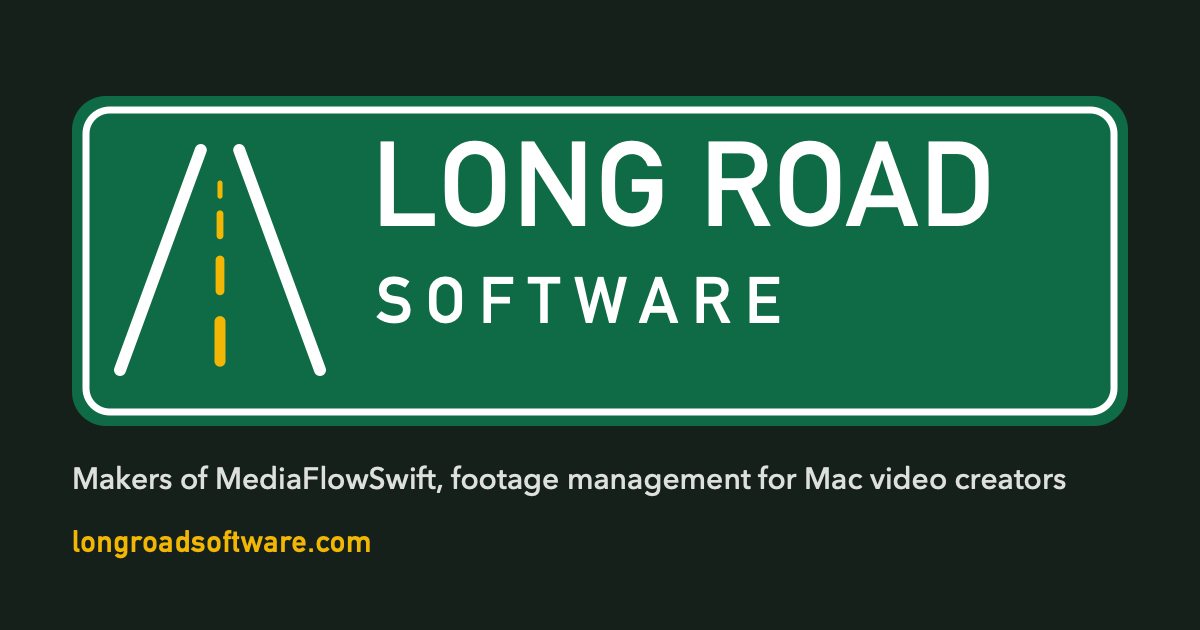
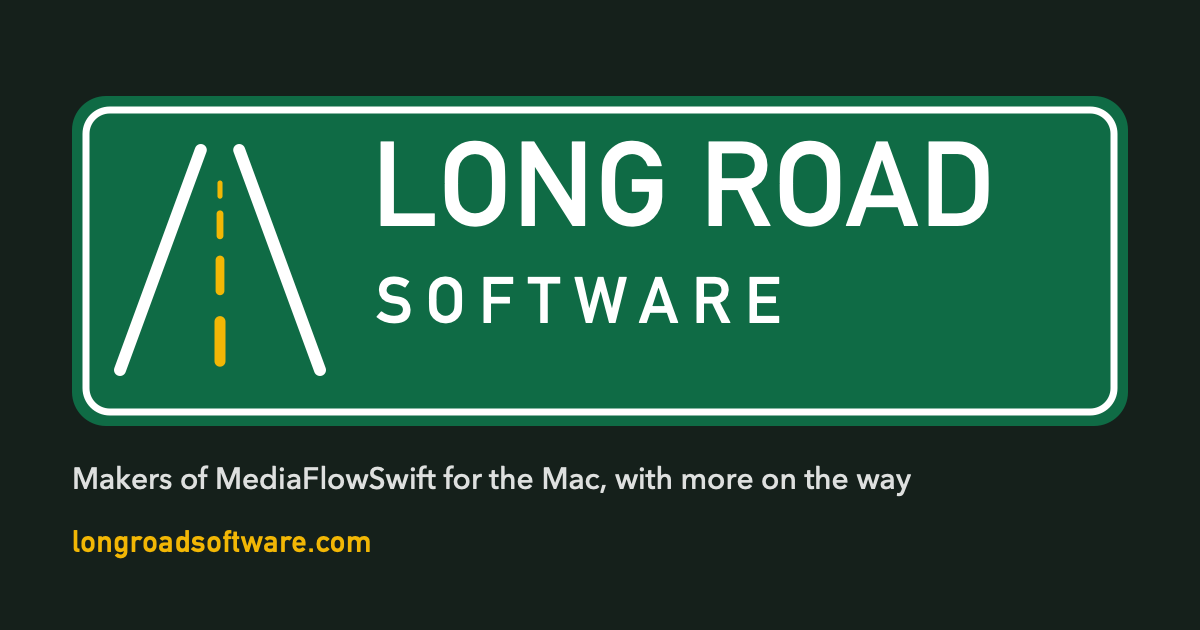
Company wording: dependable software, starting on the Mac; name what's coming without claiming it ships today (#21)

Changed region(s): [[0.37, 0.7238, 0.8942, 0.7841]]

diff --git a/index.html b/index.html
@@ -3,14 +3,14 @@
 <head>
 <meta charset="utf-8">
 <meta name="viewport" content="width=device-width, initial-scale=1">
-<title>Long Road Software — Mac Software for Video Creators</title>
-<meta name="description" content="Long Road Software LLC makes MediaFlowSwift, a Mac footage manager, and Proof Copy, a card-offload checker not yet on sale.">
+<title>Long Road Software — Dependable Software, Starting on the Mac</title>
+<meta name="description" content="Long Road Software LLC makes MediaFlowSwift, a footage manager for the Mac. Coming next: Proof Copy for the Mac, Check &amp; Roll for iPhone and iPad, and MediaFlowSwift for Windows.">
 <link rel="canonical" href="https://longroadsoftware.com/">
 <link rel="icon" href="/favicon.svg" type="image/svg+xml">
 <meta property="og:type" content="website">
 <meta property="og:site_name" content="Long Road Software">
-<meta property="og:title" content="Long Road Software — Mac Software for Video Creators">
-<meta property="og:description" content="The makers of MediaFlowSwift. Proof Copy, a card-offload checker, is not on sale yet.">
+<meta property="og:title" content="Long Road Software — Dependable Software, Starting on the Mac">
+<meta property="og:description" content="The makers of MediaFlowSwift for the Mac. Proof Copy, Check &amp; Roll and MediaFlowSwift for Windows are on the way.">
 <meta property="og:url" content="https://longroadsoftware.com/">
 <meta property="og:image" content="https://longroadsoftware.com/images/og-image.png">
 <meta property="og:image:width" content="1200">
@@ -51,8 +51,8 @@
 <main>
   <div class="wrap hero">
     <p class="marker">Est. 2026 &middot; Tennessee, USA</p>
-    <h1>Dependable Mac software for video creators.</h1>
-    <p class="lede">Long Road Software makes tools that look after the footage you shoot, from the card to the archive, and never ask for more of your information than the job needs.</p>
+    <h1>Dependable software, starting on the Mac.</h1>
+    <p class="lede">Long Road Software makes apps that do one job carefully and never ask for more of your information than the job needs. Today that means MediaFlowSwift, which looks after the footage you shoot on the Mac. Next come Proof Copy for the Mac, Check &amp; Roll for iPhone and iPad, and MediaFlowSwift for Windows.</p>
   </div>
 
   <div class="wrap"><div class="centerline" aria-hidden="true"></div></div>
@@ -100,7 +100,7 @@
   <section id="about" class="wrap" aria-labelledby="about-title">
     <h2 id="about-title">About</h2>
     <p class="mission">We make software that does one job carefully and tells you plainly what it did. Each app starts as something we needed ourselves, on the road or at the desk. It asks for no more of your information than the job needs, and a feature waits for the next release rather than ship half done.</p>
-    <p>Long Road Software LLC is a Tennessee limited liability company, formed in 2026. It publishes MediaFlowSwift and supports it directly. Proof Copy is in preparation and is not on sale. Purchases of MediaFlowSwift are handled by Paddle, our merchant of record, so your payment details never reach us.</p>
+    <p>Long Road Software LLC is a Tennessee limited liability company, formed in 2026. It publishes MediaFlowSwift for the Mac and supports it directly. Proof Copy is in preparation and is not on sale, and Check &amp; Roll is not yet on the App Store. Purchases of MediaFlowSwift are handled by Paddle, our merchant of record, so your payment details never reach us.</p>
     <ul class="principles">
       <li><strong>Your files come first.</strong> <span>Nothing is removed until its copy has been read back and proved identical.</span></li>
       <li><strong>No account, no usage data.</strong> <span>Outside services stay off until you turn them on, and the app lists what each one sends.</span></li>

diff --git a/tools/make_images.swift b/tools/make_images.swift
@@ -76,7 +76,7 @@ let og = canvas(1200, 630) { cg in
     road(cg, in: CGRect(x: 120, y: 150, width: 200, height: 220), edge: 12, dash: 11)
     text("LONG ROAD", font("DINAlternate-Bold", 118), .white, at: CGPoint(x: 372, y: 142), kern: 2)
     text("SOFTWARE", font("DINAlternate-Bold", 64), .white, at: CGPoint(x: 376, y: 276), kern: 14)
-    text("Makers of MediaFlowSwift, footage management for Mac video creators",
+    text("Makers of MediaFlowSwift for the Mac, with more on the way",
          font("AvenirNext-Medium", 30), NSColor(white: 1, alpha: 0.86), at: CGPoint(x: 72, y: 470))
     text("longroadsoftware.com", font("DINAlternate-Bold", 30), yellow, at: CGPoint(x: 72, y: 530), kern: 1)
 }
